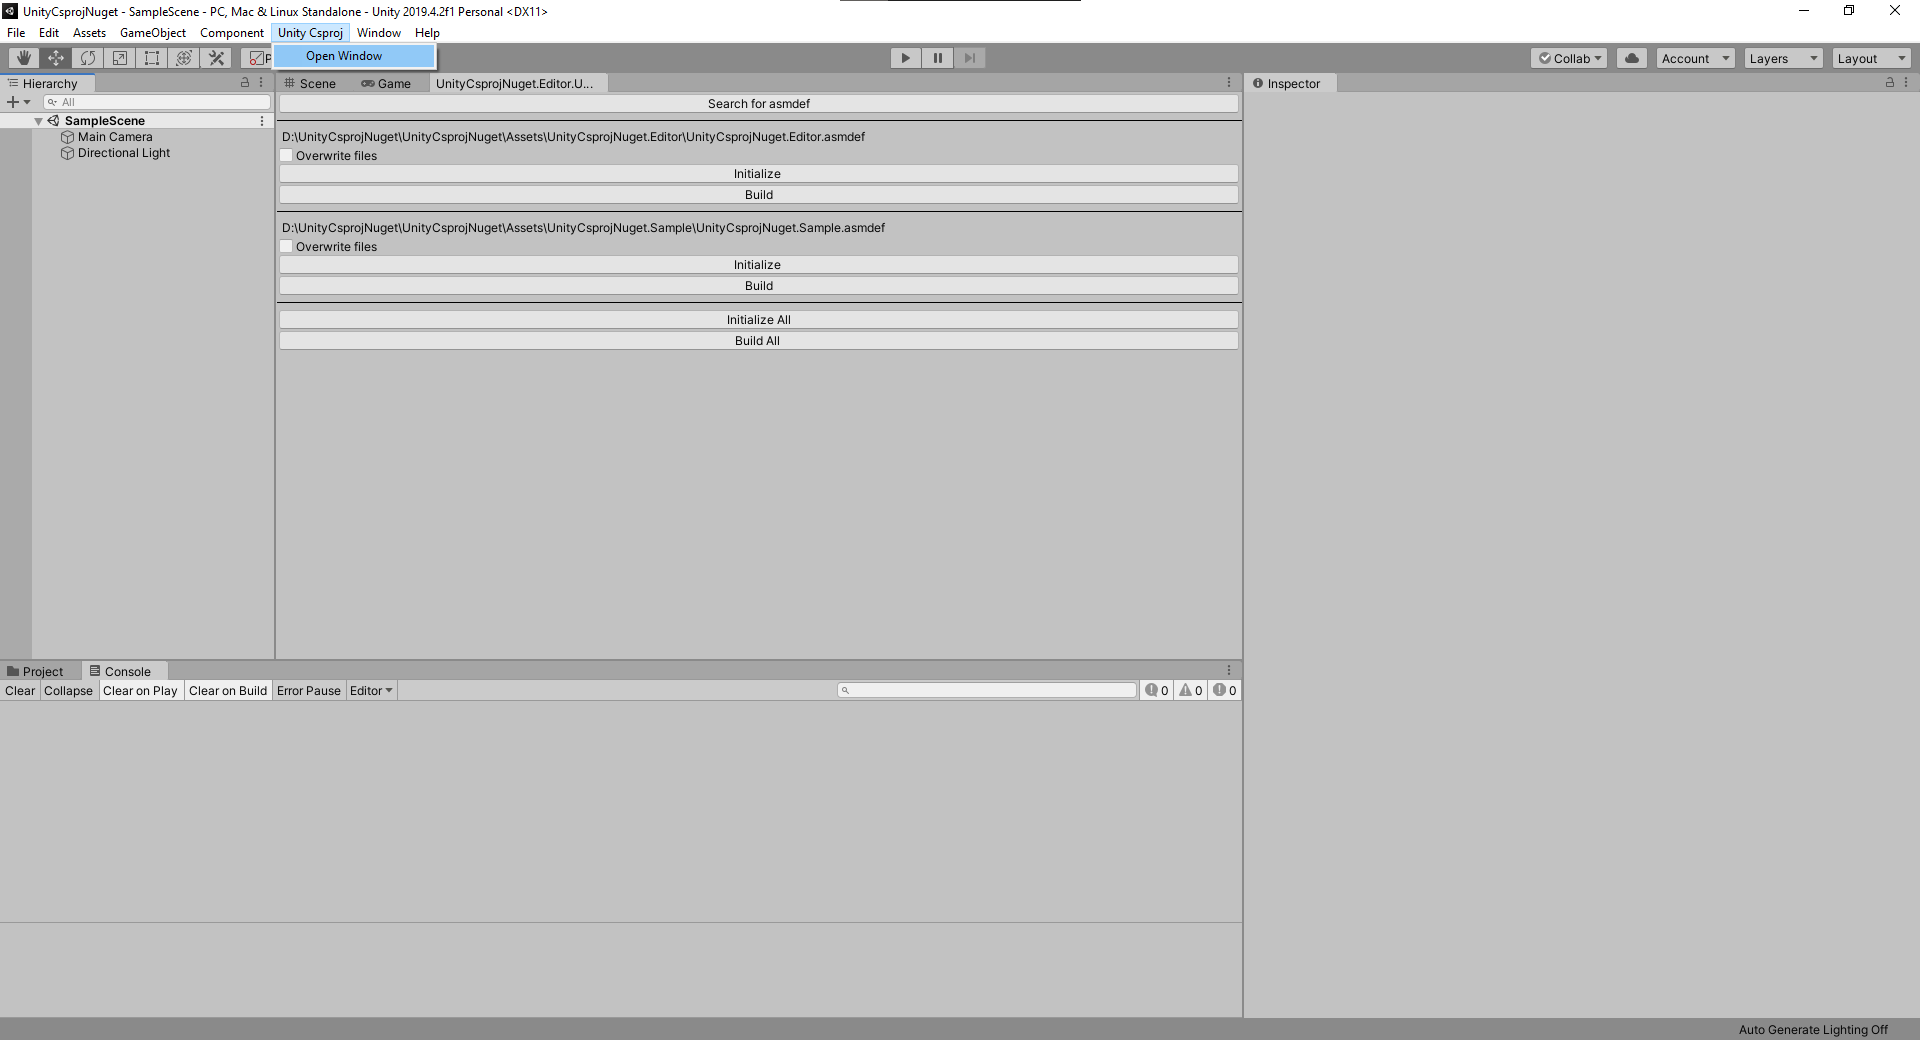
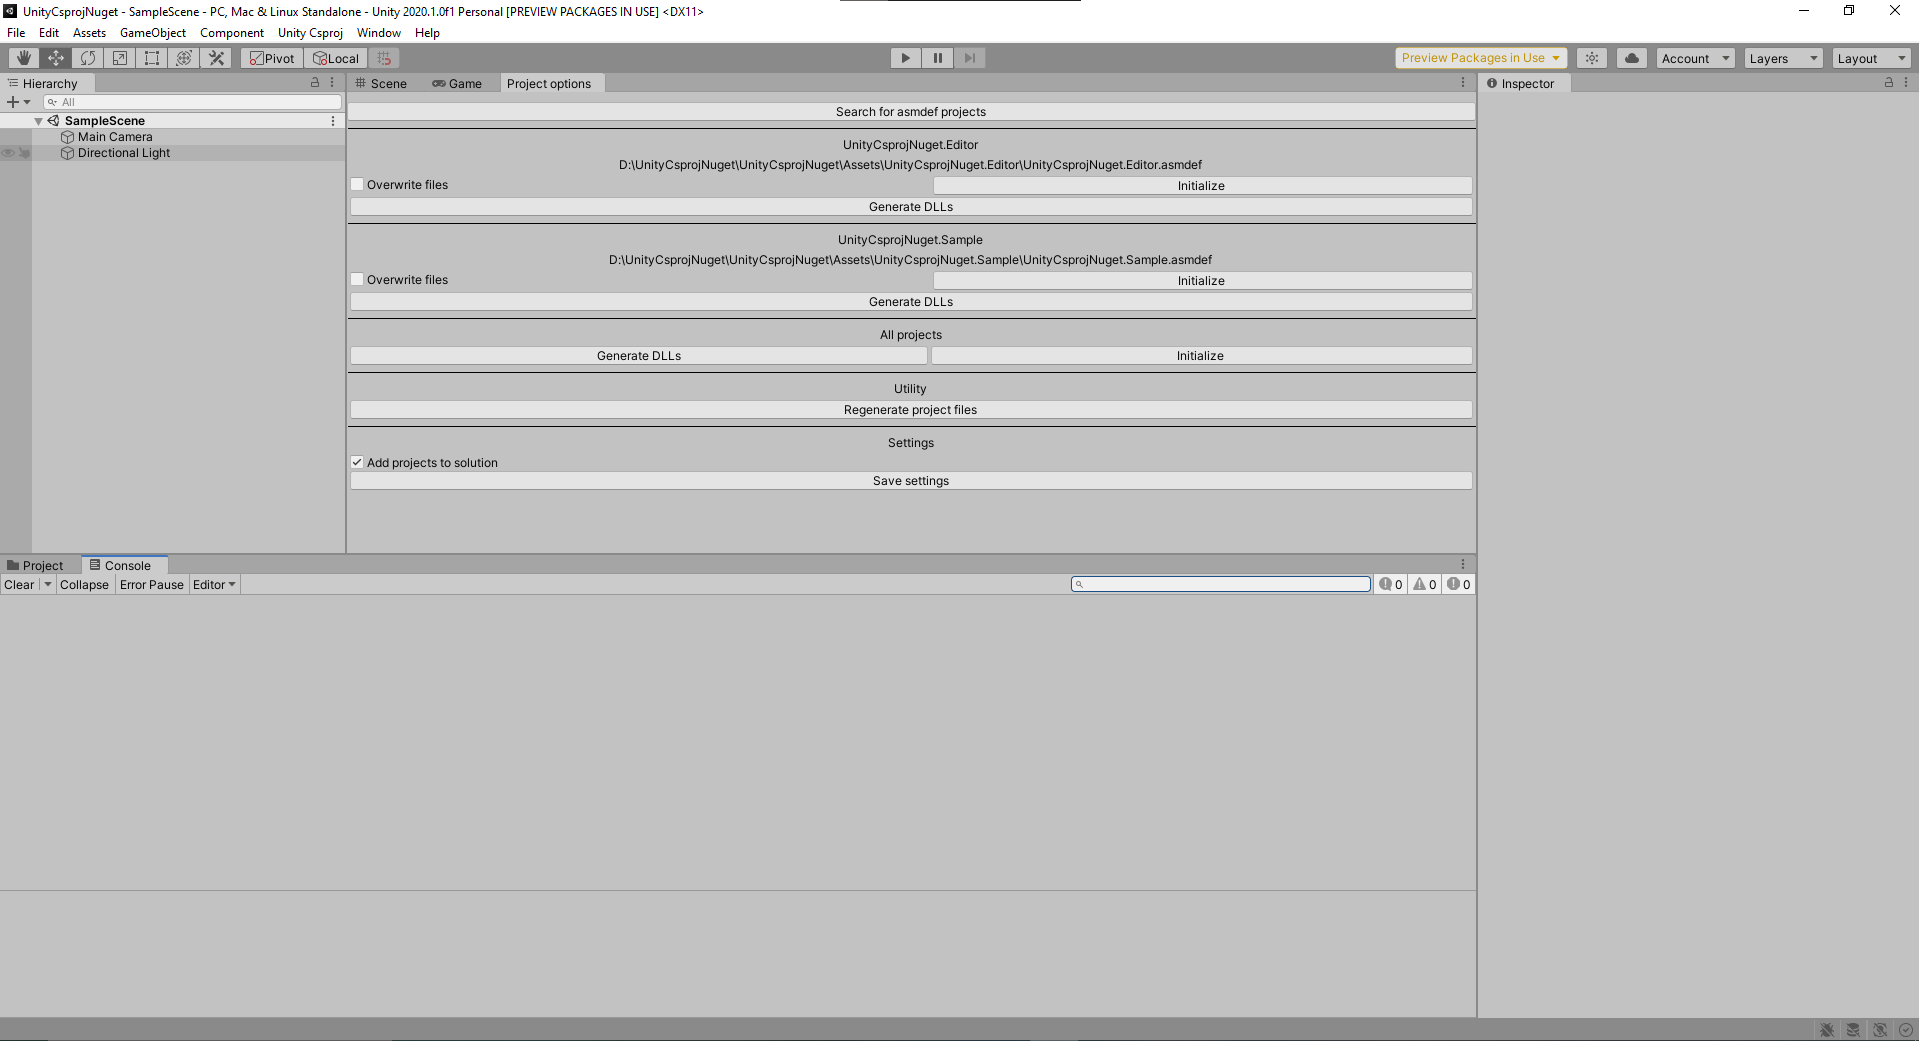
Update readme

diff --git a/README.md b/README.md
@@ -33,15 +33,23 @@ The main idea is [this](https://kuraiandras.github.io/unity/2020/04/28/modern-un
 2. Install the project through either [openupm](https://openupm.com/packages/com.unitycsprojnuget/) (this is recommended) or with the provided [unitypackage](https://github.com/KuraiAndras/UnityCsprojNuget/releases/latest). 
 3. Launch the csproj window as shown on the above image
 4. This window will enumerate through all of your asmdef files, and will let you create a csproj file for it's dependencies, and also place a folder named NugetDlls with a gitignore for the dlls and their meta files. The csproj is placed in a folder called .nuget which will be ignored by Unity. If you do not want to use the provided gitignore files, then delete them after initialization.
-5. Regenerate the Unity project files through Edit/Preferences/External Tools
+5. Regenerate the Unity project files through either the "Regenerate project file" button, or in the Unity options: "Edit/Preferences/External Tools".
 6. Launch Visual Studio and add nuget packages to the generated project file, or use the dotnet cli tools
 7. Build the generated project from either Visual Studio, the dotnet cli or through the provided Editor UI
-8. (Optional) If you are using Visual Studio to debug then unload the generated projects from Visual Studio, so they do not interfere when attaching to Unity.
+8. (Optional) This is not needed if your are using Unity 2020.1 and have the latest Visual Studio package. If you are using Visual Studio to debug then unload the generated projects from Visual Studio, so they do not interfere when attaching to Unity.
 9. You are done!
+
+## Settings
+
+Setting | Description
+ --- | ---
+ Add projects to solution | Whether to add the initialized projects to the unity-generated solution file, when the project is regenerated
+
+Settings are persisted in the root unity folder in the NugetOptions.xml file. To save and apply the settings press the "Save settings" button.
 
 ## Additional stuff
 
-- When Unity generates the solution files your nuget projects will be added to the solution. If you want to debug your Unity project you may need to unload them from the solution by right clicking on them in Visual Studio.
+- When Unity generates the solution files your nuget projects will be added to the solution. If you want to debug your Unity project you may need to unload them from the solution by right clicking on them in Visual Studio. (Only when using Unity older than 2020.1)
 - If you want to use this in a CI-CD environment then you don't need to manually run dotnet build for the nuget projects. The project comes with an IPreprocessBuildWithReport which will do the same thing as the Build All button.
 - Running the build command will replicate the output of the dotnet cli to the Unity Debug console.
 
